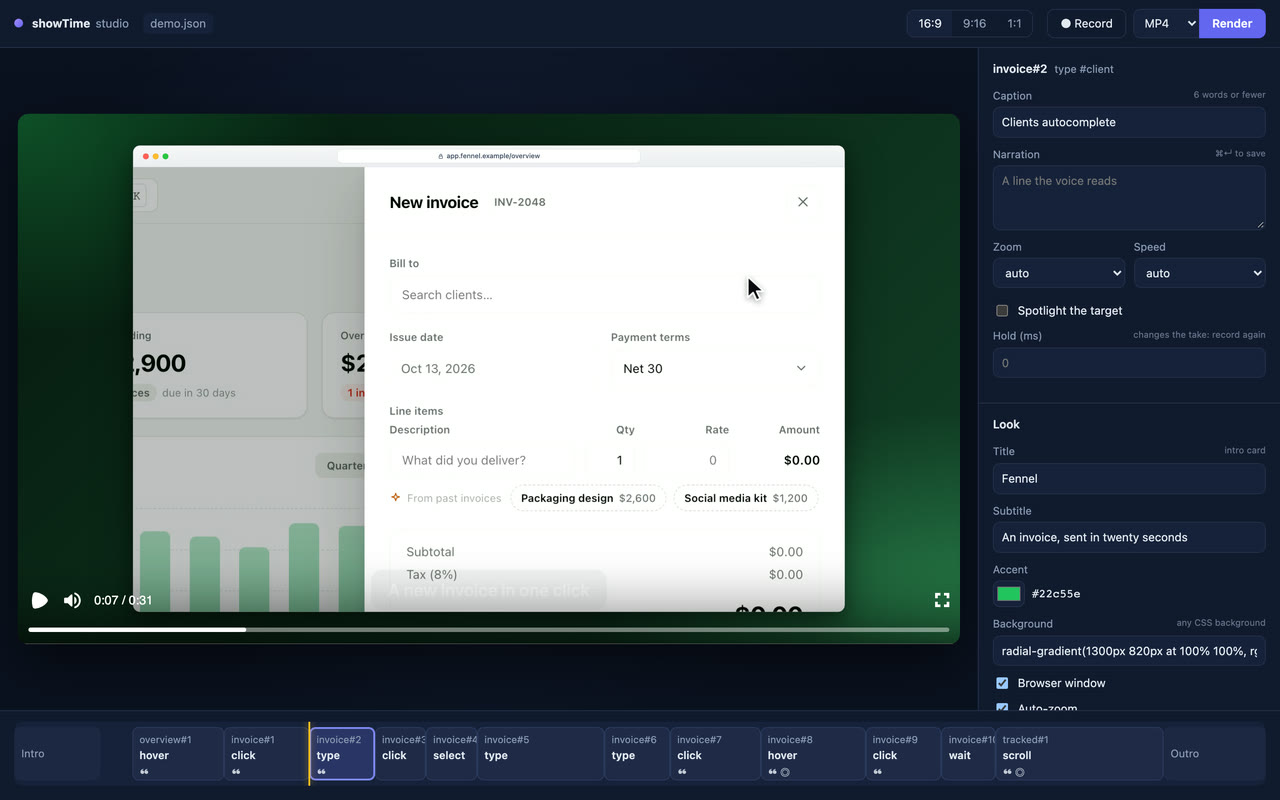
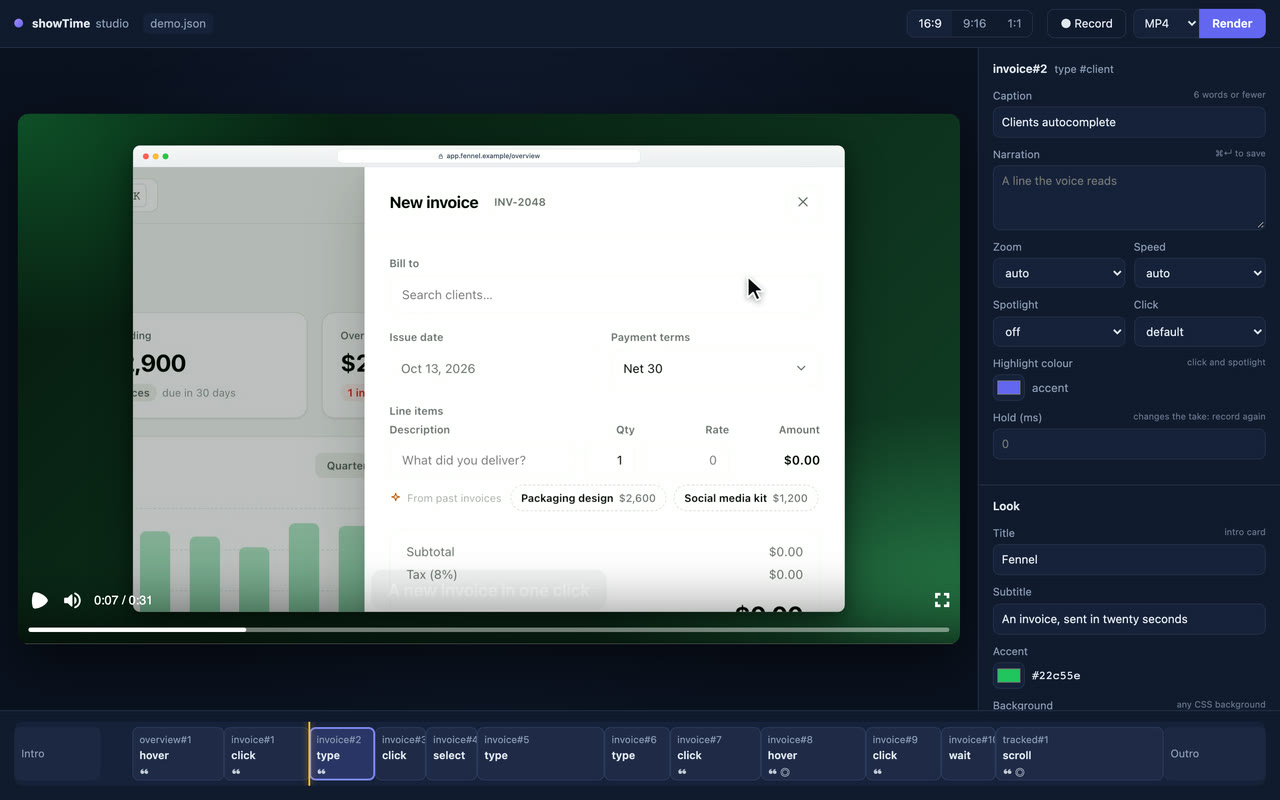
docs: 0.7.0 look and sound; styles image

diff --git a/scripts/media.ts b/scripts/media.ts
@@ -13,6 +13,13 @@ import { chromium } from 'playwright';
 import { toWebp } from '../src/convert';
 import { run } from '../src/ffmpeg';
 import { startStudio } from '../src/studio/server';
+import { logoDataUri } from '../src/logo';
+import { renderStills } from '../src/render/render';
+import { loadScript } from '../src/script/load';
+import { loadTake } from '../src/take';
+import { buildTimeline } from '../src/timeline/build';
+import { introFrames } from '../src/timeline/frames';
+import { sourceToOutput } from '../src/timeline/timemap';
 import { qaShots, sourceMsAtFrame } from '../src/timeline/frames';
 import { BROWSER_BAR, windowLayout } from '../src/timeline/layout';
 import type { TakeEvents, Timeline } from '../src/timeline/types';
@@ -89,6 +96,9 @@ async function main() {
   await run('ffmpeg', ['-v', 'error', '-y', '-ss', (srcMs / 1000).toFixed(3), '-i', need(raw), '-frames:v', '1', '-vf', 'scale=1280:-1:flags=lanczos', '-q:v', '3', path.join(out, 'before.jpg')]);
   await jpeg(path.join(frames, `${COMPARE}.png`), 'after.jpg');
 
+  process.stdout.write('styles.jpg…\n');
+  await stylesImage();
+
   process.stdout.write('studio.jpg…\n');
   const studio = await startStudio(path.join(example, 'demo.json'), { port: 0 });
   const browser = await chromium.launch();
@@ -107,6 +117,40 @@ async function main() {
   }
 
   process.stdout.write(`✓ media in ${path.relative(process.cwd(), out)}\n`);
+}
+
+/** The same click in four looks: click animation, highlight, spotlight style, caption style, watermark. */
+async function stylesImage() {
+  const loaded = await loadScript(path.join(example, 'demo.json'));
+  const events = await loadTake(loaded);
+  const looks: { show: Record<string, unknown>; style: Record<string, unknown> }[] = [
+    { show: { click: 'ripple' }, style: {} },
+    { show: { click: 'burst', highlight: '#f59e0b', spotlight: 'glow' }, style: { captionStyle: 'accent' } },
+    { show: { click: 'pulse', highlight: '#38bdf8', spotlight: 'ring' }, style: { captionStyle: 'light' } },
+    { show: { click: 'ring', highlight: '#f43f5e', spotlight: true }, style: { captionStyle: 'outline', watermark: { text: 'fennel.example', position: 'top-right', opacity: 0.6, size: 28 } } },
+  ];
+  const tiles: string[] = [];
+  for (const [i, look] of looks.entries()) {
+    const script = structuredClone(loaded.script);
+    const index = script.scenes.find((sc) => sc.id === 'invoice')!.steps.findIndex((st) => 'target' in st && st.target?.includes('Packaging design'));
+    const step = script.scenes.find((sc) => sc.id === 'invoice')!.steps[index];
+    step.show = { ...step.show, caption: 'Past items in one click', ...look.show } as typeof step.show;
+    Object.assign(script.style, look.style);
+    const t = buildTimeline(script, events, { logo: script.meta.logo ? await logoDataUri(script.meta.logo) : undefined, watermark: script.style.watermark as never });
+    const fx = t.clickFx.find((c) => c.tMs >= events.steps.find((e) => e.sceneId === 'invoice' && e.index === index)!.actionMs)!;
+    const frame = introFrames(t) + Math.round((sourceToOutput(t.segments, fx.tMs + 200) * t.fps) / 1000);
+    const [still] = await renderStills(t, path.join(work), path.join(work, 'frames'), [{ frame, name: `look-${i}` }]);
+    const tile = path.join(work, `look-${i}.jpg`);
+    // The whole frame: the watermark sits outside the window.
+    await run('ffmpeg', ['-v', 'error', '-y', '-i', still, '-vf', 'scale=640:-1:flags=lanczos', '-q:v', '3', tile]);
+    tiles.push(tile);
+  }
+  await run('ffmpeg', [
+    '-v', 'error', '-y',
+    ...tiles.flatMap((t) => ['-i', t]),
+    '-filter_complex', '[0][1]hstack[t];[2][3]hstack[b];[t][b]vstack',
+    '-q:v', '3', path.join(out, 'styles.jpg'),
+  ]);
 }
 
 await main();

diff --git a/README.md b/README.md
@@ -148,6 +148,27 @@ again.
   </tr>
   <tr>
     <td valign="top">
+      <img src="docs/media/styles.jpg" alt="One click in four looks: ripple, burst with a glow, pulse with a ring, double ring with a dimmed page, an outline caption and a watermark" /><br />
+      <b>🎨 Your look</b><br />
+      <sub>Five click animations, a highlight colour per step, dim, ring or glow spotlights, five caption styles, your own fonts (embedded in the video) and a watermark. All of it re-renders without a new take.</sub>
+    </td>
+    <td valign="top">
+<pre lang="json">
+"audio": { "sounds": "mechanical" }
+
+"show": {
+  "say": "And over to Daniel.",
+  "voice": { "name": "Daniel" }
+}
+</pre>
+<pre>showtime voices --lang uk
+showtime voices --try "Привіт" --voice Lesya</pre>
+      <b>🔊 Sound packs and voices</b><br />
+      <sub>Soft, mechanical, pop, tap or typewriter clicks (or your own files), a different voice for any line, and a command to list and try the voices you have.</sub>
+    </td>
+  </tr>
+  <tr>
+    <td valign="top">
       <img src="docs/media/outro.jpg" alt="Outro card with logo, title and URL" /><br />
       <b>📣 Ends on your call to action</b><br />
       <sub>An outro card with your logo, a headline and the URL to visit. Put it in a brand file once and every demo ends the same way.</sub>
@@ -327,7 +348,10 @@ Targets are Playwright selectors: `role=button[name='Save']`, `text=Save`, `#id`
 |-------------|----------------|--------|
 | `caption`   | string         | caption while the step plays |
 | `zoom`      | 1–4 or `false` | override the auto-zoom depth, or skip zooming |
-| `spotlight` | boolean        | dim everything except the target |
+| `spotlight` | `true`/`dim`, `ring`, `glow` | point at the target: dim the rest, a ring, or a soft glow |
+| `highlight` | CSS colour     | colour of this step's click animation and spotlight (default `style.accent`) |
+| `click`     | `ripple`, `pulse`, `burst`, `ring`, `none` | this step's click animation |
+| `voice`     | `{ name?, engine?, speed?, … }` | changes to `audio.voice` for this step's `say` |
 | `hold`      | ms             | extra real time after the step (changes the take) |
 | `speed`     | 0.25–16        | playback speed for this step |
 | `say`       | string         | narration spoken from the start of the step; the next narrated step waits for it |
@@ -350,6 +374,13 @@ Targets are Playwright selectors: `role=button[name='Save']`, `text=Save`, `#id`
 | `autoZoom`   | `true`             | zoom on clicks, typing, hovers and selects |
 | `autoSpeed`  | `true`             | speed up idle stretches longer than 0.8 s |
 | `maxZoom`    | `1.8`              | cap for auto-zoom |
+| `click`      | `ripple`           | click animation: `ripple`, `pulse`, `burst`, `ring`, `none` |
+| `spotlightDim` | `0.55`           | how dark a `dim` spotlight makes the rest |
+| `captionStyle` | `dark`           | `dark`, `light`, `accent`, `outline` or `bar` |
+| `captionFont`, `titleFont` | `font` | families for captions/subtitles and for the cards |
+| `captionSize` | 36 (46 in 9:16)   | caption text size in px at 1080p |
+| `fonts`      | `[]`               | `[{ family, file, weight?, style? }]`: font files (woff2/woff/ttf/otf ≤ 5 MB) embedded in the video |
+| `watermark`  | none               | `{ text?, image?, position?, opacity?, size? }` in a corner of every frame |
 
 </details>
 
@@ -394,7 +425,7 @@ Targets are Playwright selectors: `role=button[name='Save']`, `text=Save`, `#id`
 | `voice.instructions` | none       | OpenAI only: how to speak ("warm, confident") |
 | `voice.command`      | none       | `command` only: a shell command that reads the text on stdin and writes audio to `{out}` (inserted already quoted, so write it bare; also in `$SHOWTIME_OUT`), e.g. `piper -m en_US.onnx -f {out}` |
 | `music`              | none       | `{ file, volume? }`: a bed under the whole video, looped and ducked under the voice |
-| `sounds`             | `false`    | click and keystroke sounds |
+| `sounds`             | `false`    | click and keystroke sounds: `true` (soft), `soft`, `mechanical`, `pop`, `tap`, `typewriter`, or `{ pack?, click?, key?, volume? }` with your own files |
 | `clips`              | `[]`       | `[{ file, at: "scene#n", offsetMs?, volume? }]`: the app's own sounds (a ringing phone, a caller), placed at a step; music ducks under them |
 | `subtitles`          | `file`     | `file`: an `.srt` next to the video; `burn`: also on the video (captions move up); `off` |
 
@@ -472,6 +503,7 @@ Put it next to your scripts or in any folder above them; the nearest one applies
 | `showtime setup [--agent claude\|codex\|all] [--no-browsers]` | download the browsers, link the skill |
 | `showtime make <script> [render options]` | check → record → render |
 | `showtime inspect <url> [--viewport 1440x900]` | every named control on the page with a ready target, and a screenshot |
+| `showtime voices [--engine …] [--lang uk] [--try "text" --voice name] [--play]` | list an engine's voices, or try one |
 | `showtime check <script> [--json] [--headed] [--until scene#n]` | rehearse; a screenshot per step; the first failure with an ARIA snapshot |
 | `showtime record <script> [--headed] [--keep-frames]` | record a take into `.showtime/<name>/take` |
 | `showtime render <script> [-o out] [--aspect 16:9\|9:16\|1:1] [--format mp4\|gif\|webp] [--width px] [--fps n] [--scenes a,b] [--no-audio]` | render from the last take, without re-recording; `--scenes` cuts a short clip |

diff --git a/skill/SKILL.md b/skill/SKILL.md
@@ -87,6 +87,11 @@ steps. Write one short sentence per moment about the benefit, not the clicks. `s
   environment (`OPENAI_API_KEY` / `ELEVENLABS_API_KEY`); never write keys into the script. Those
   engines send the narration text to the provider. `command` runs any TTS that reads stdin and
   writes `{out}` (inserted already quoted: write it bare, e.g. `piper -m en_US.onnx -f {out}`).
+- Pick a voice with `showtime voices --lang <code>` and audition it with
+  `showtime voices --try "…" --voice <name>`; a step's `show.voice` changes the voice for its line
+  (a second narrator).
+- `sounds`: `true`/`"soft"`, `"mechanical"`, `"pop"`, `"tap"`, `"typewriter"`, or
+  `{ pack, click: "file.wav", key: "file.wav", volume }`.
 - `music: { file, volume? }` adds a looped bed that ducks under the voice; only use files the user
   provides.
 - `subtitles`: `file` (default) writes `<video>.srt`; `burn` also draws them (good for 9:16, which
@@ -143,14 +148,18 @@ ask the user for one rather than guessing.
 - **Actions (`do`):** `goto {url}` · `click {target}` · `type {target, text, pace?: human|fast|ms, clear?}` ·
   `press {key}` · `hover {target}` · `select {target, value}` · `scroll {target} | {by}` ·
   `wait {for} | {ms}` · `pause {ms}`
-- **`show` (per step):** `zoom` (number, or `false`), `caption`, `spotlight`, `hold` (ms, real time),
-  `speed`, `say` (narration).
+- **`show` (per step):** `zoom` (number, or `false`), `caption`, `spotlight` (`true`/`dim`, `ring`,
+  `glow`), `highlight` (CSS colour), `click` (`ripple`, `pulse`, `burst`, `ring`, `none`), `hold`
+  (ms, real time), `speed`, `say` (narration), `voice` (changes to `audio.voice` for this line).
 - **`audio`:** `voice` (`{ engine: system | openai | elevenlabs | command, name?, speed?, model?,
   instructions?, command? }`), `music` (`{ file, volume? }`), `sounds` (clicks and keystrokes),
   `subtitles` (`file` | `burn` | `off`), `clips` (`[{ file, at: "scene#n", offsetMs?, volume? }]`:
   the app's own sounds, which the capture can't hear).
 - **`style`:** `background` (any CSS background), `chrome` (`browser` window frame | `none`), `address`
-  (address-bar text), `padding`, `radius`, `shadow`, `font`, `accent`, `autoZoom`, `autoSpeed`, `maxZoom`.
+  (address-bar text), `padding`, `radius`, `shadow`, `font`, `accent`, `autoZoom`, `autoSpeed`, `maxZoom`,
+  `click` (default click animation), `spotlightDim`, `captionStyle` (`dark`, `light`, `accent`,
+  `outline`, `bar`), `captionFont`, `titleFont`, `captionSize`, `fonts` (`[{ family, file }]`, embedded),
+  `watermark` (`{ text?, image?, position?, opacity?, size? }`).
 - **`app`:** `url`, `viewport`, `deviceScaleFactor`, `storageState` (Playwright storage-state JSON,
   path relative to the script), `colorScheme`, `locale`, `timezoneId`, `mask` (CSS selectors to blur —
   plain CSS only, not `text=` / `role=`), `hide` (CSS selectors to hide: dev badges such as Next.js's

diff --git a/CHANGELOG.md b/CHANGELOG.md
@@ -1,5 +1,20 @@
 # Changelog
 
+## Unreleased
+
+- Sound packs: `audio.sounds` takes `soft` (what `true` means), `mechanical`, `pop`, `tap` or
+  `typewriter`, or `{ pack, click, key, volume }` with your own files.
+- Click animations: `style.click` and `show.click` (`ripple`, `pulse`, `burst`, `ring`, `none`).
+- Highlights: `show.highlight` colours a step's click animation and spotlight; `show.spotlight` takes
+  `dim`, `ring` or `glow`; `style.spotlightDim`.
+- Overlay text: `style.captionStyle` (`dark`, `light`, `accent`, `outline`, `bar`), `captionFont`,
+  `titleFont`, `captionSize`, and `style.fonts` to embed font files in the video.
+- `style.watermark`: text and/or an image in a corner of every frame.
+- Voices: `show.voice` changes the voice for one line; `showtime voices` lists an engine's voices
+  (`--lang`) and tries one (`--try`, `--play`).
+- The studio edits click animations, spotlight styles, highlight colours, caption style and font,
+  the watermark and the sound pack.
+
 ## 0.6.0 — 2026-10-14
 
 - `showtime inspect <url>`: every named control on a page with a ready target and how many
